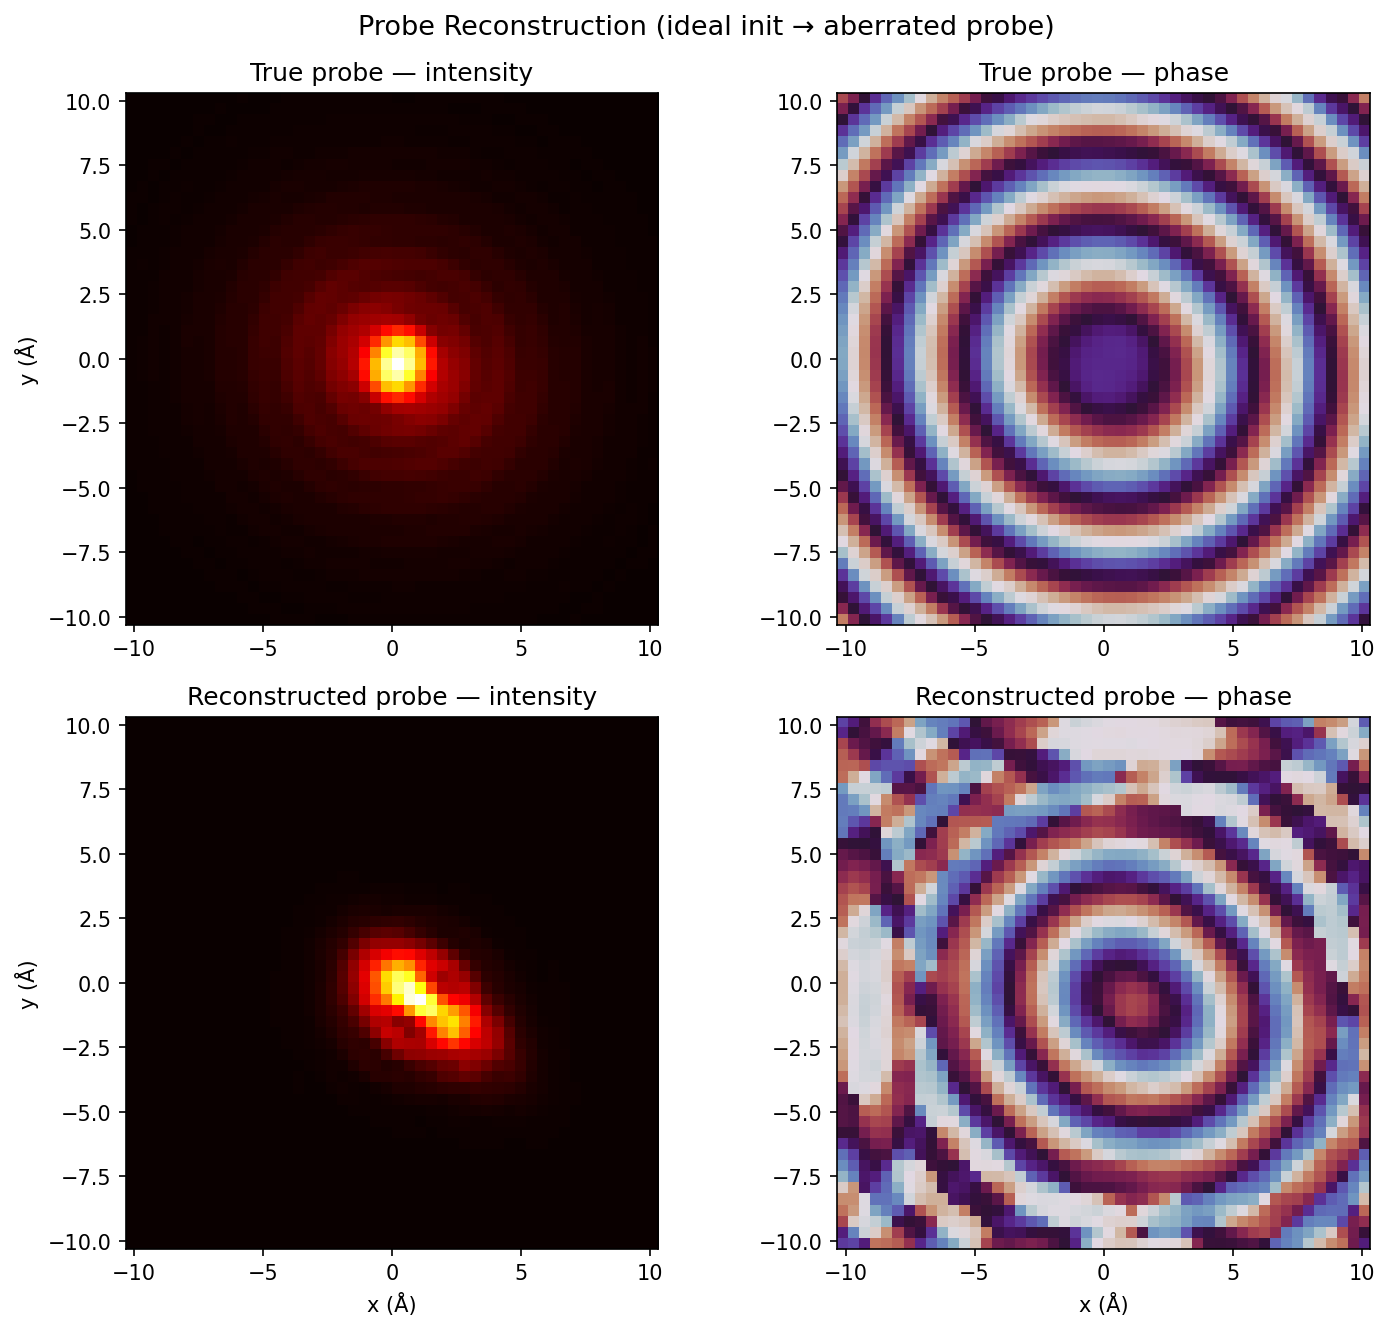
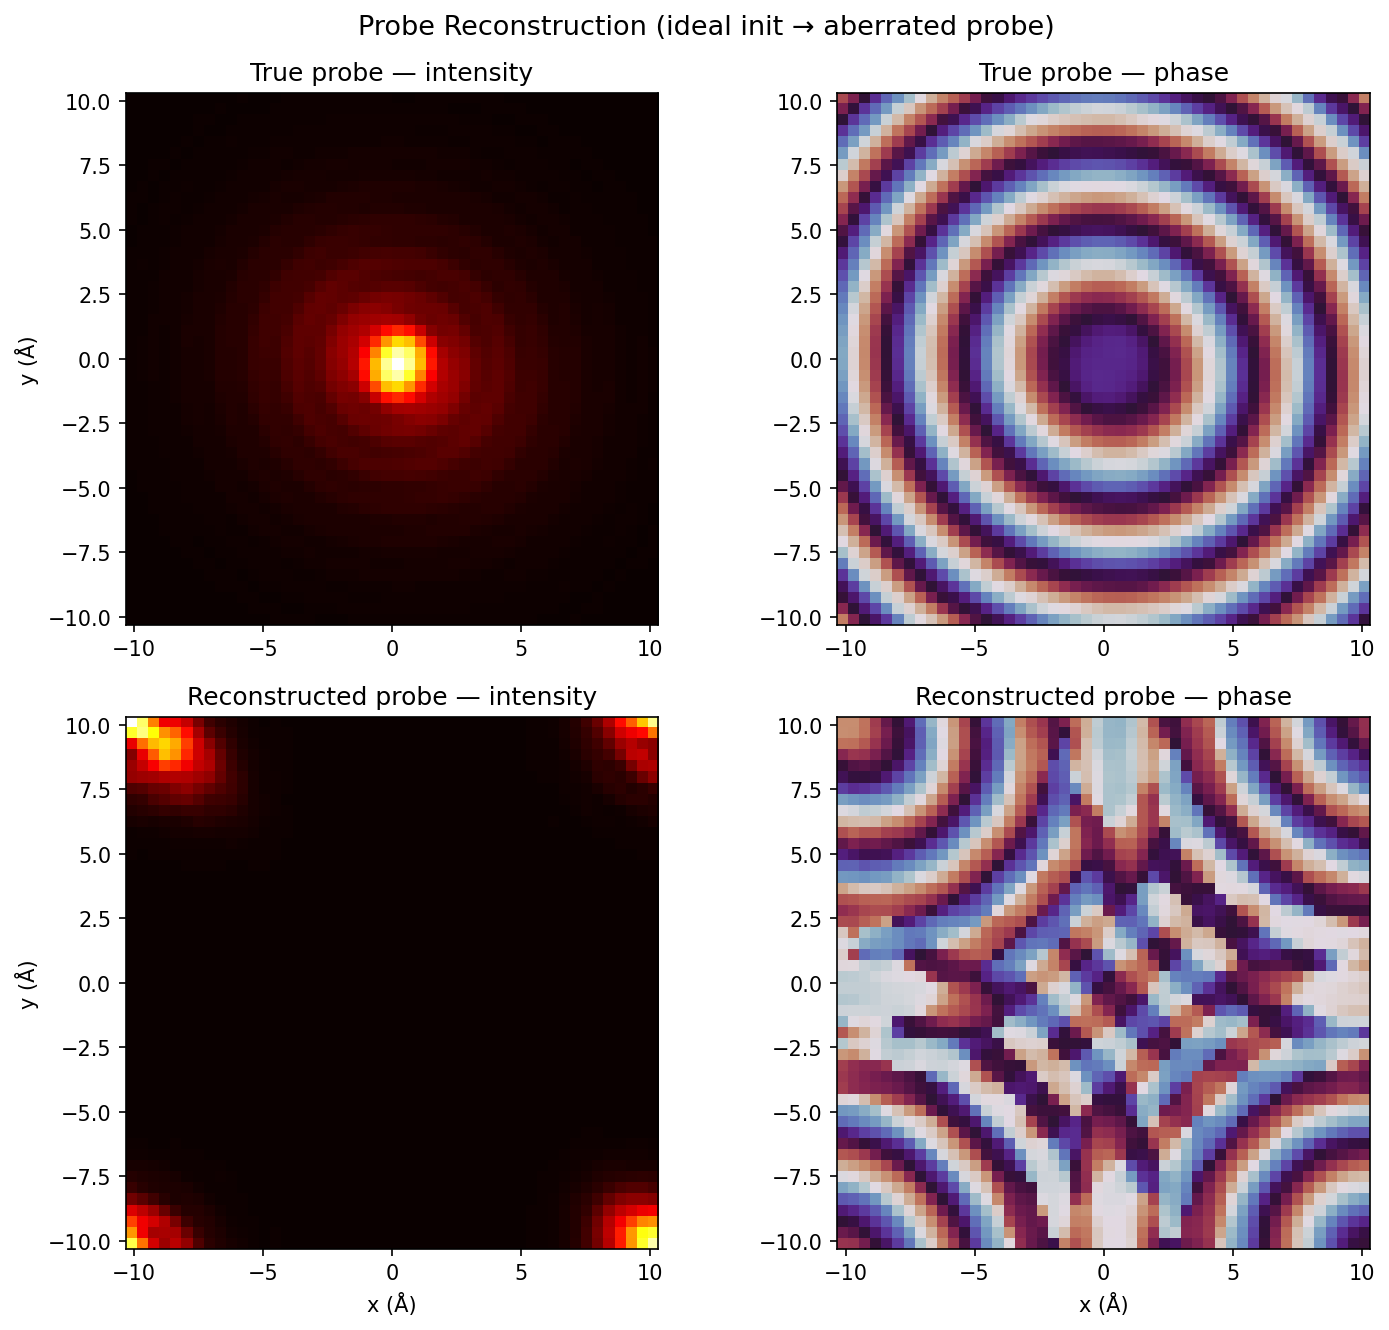
Fix align_translation: cross-corr → centroid matching
The previous cross-correlation alignment failed catastrophically on
the unit-modulus periodic-lattice object: with |O|=1 everywhere, the
F[0,0] component is huge (~N²), so the IFFT cross-correlation has a
near-constant baseline at every lag with the true shift signal as a
sub-percent perturbation. The atom lattice further produces a comb
of false peaks at multi-lattice-period offsets, and dim corner atoms
let those false peaks exceed the true zero-shift peak — the recon
was being shifted by ~13 px (one full lattice period) in the wrong
direction, while the underlying recon was actually 0.5 px from
truth. Diagnostic confirmed: pre-align centroid (-0.5, -0.05),
post-align (-13, +2).

New alignment matches the phase-weighted centroids of the two
images directly. Robust to:
- Unit-modulus DC dominance (centroid operates on np.angle, not on
  the complex object itself).
- Lattice periodicity (centroid is a global statistic, no comb of
  candidate peaks to choose between).
- Symmetric corner dimming (atoms at symmetric positions still
  contribute to a centroid at the geometric centre).
- Sub-pixel precision intrinsically (no integer-then-parabolic
  refinement).

Verified on the actual saved recon: post-align centroid (128.0017,
128.0013) vs truth (128, 128) — 0.001 px residual.

Also adds an optional `sample_support` parameter to
multislice_ePIE — a binary mask that pins the object to vacuum
(O=1) outside a known sample region. Off by default (None) so
[…]

diff --git a/microptycho.py b/microptycho.py
@@ -353,66 +353,71 @@ class MicroPtycho:
         return field * np.exp(-1j * (ax * X + ay * Y + c))
 
     @staticmethod
-    def align_translation(field, reference):
+    def align_translation(field, reference, threshold=0.3):
         """
-        Remove a real-space translation between `field` and `reference`,
-        with sub-pixel precision. ePIE has a translation gauge freedom —
-        the reconstructed object and probe can drift together by any
-        vector, including by fractional pixels. An integer-pixel-only
-        alignment leaves up to ½ pixel of visible offset (with dx≈0.4 Å
-        per pixel that's ~0.2 Å of unfixable drift in the figure).
+        Remove a real-space translation between `field` and `reference`
+        by matching the phase-weighted centroids of the two images
+        (sub-pixel precision, no parameters to tune).
 
-        Algorithm:
-          1. Complex cross-correlation, integer peak in |xcorr| (robust
-             to unknown global phase and to periodic-lattice ambiguities
-             — the all-atoms-aligned peak dominates over period-shifted
-             peaks because each lattice mismatch loses one row of atoms).
-          2. Parabolic fit on the three points around the integer peak
-             along each axis → sub-pixel refinement (≈0.01 px in
-             practice).
-          3. Apply the full sub-pixel shift via Fourier-domain phase
-             ramp — wrap-aware (exact for a periodic FOV).
+        Why not cross-correlation? Three failure modes for our regime:
+          - |O|=1 everywhere (unit-modulus object) → F[0,0]≈N², so the
+            IFFT cross-correlation has a near-constant baseline ≈N² at
+            every lag with the true shift signal as a sub-percent
+            perturbation on top.
+          - The periodic atom lattice produces a comb of cross-
+            correlation peaks at every integer multiple of the lattice
+            period. When the recon has weak corner atoms, a multi-
+            period-shifted false peak can EXCEED the zero-shift peak
+            (the brighter inner atoms still align cleanly while the
+            zero-shift alignment is penalised by the dim corners).
+          - Sub-pixel parabolic refinement on a near-flat xcorr around
+            the true peak amplifies whichever side has random
+            asymmetric noise.
+
+        Centroid matching sidesteps all three: the centroid is a
+        global statistic on the entire phase image, robust to
+        periodicity (lattice symmetry leaves the centroid at the
+        geometric centre), unaffected by unit-modulus DC, and
+        intrinsically sub-pixel.
+
+        Threshold: only pixels with phase ≥ `threshold` × max contribute,
+        so the centroid is computed over the atom-bearing region rather
+        than diluted by background phase noise. With symmetric corner-
+        dimming (the typical edge-effect mode), the centroid is
+        unbiased: dim atoms at symmetric positions still contribute to
+        a centroid at the geometric centre.
         """
         if field.shape != reference.shape:
             raise ValueError("field and reference must have identical shapes.")
-        F1 = np.fft.fft2(field)
-        F2 = np.fft.fft2(reference)
-        xcorr = np.fft.fftshift(np.fft.ifft2(F1 * np.conj(F2)))
-        xcorr_abs = np.abs(xcorr)
         ny, nx = field.shape
-        peak_y, peak_x = np.unravel_index(np.argmax(xcorr_abs), xcorr_abs.shape)
 
-        def _parabolic_offset(left, centre, right):
-            denom = left - 2.0 * centre + right
-            if abs(denom) < 1e-20:
-                return 0.0
-            # Closed form for the vertex of the parabola through three
-            # equally-spaced samples; clamp to ±½ in case of pathology.
-            return float(np.clip(0.5 * (left - right) / denom, -0.5, 0.5))
+        def _centroid(complex_field):
+            phi = np.angle(complex_field)
+            cutoff = max(phi.max() * threshold, 1e-6)
+            mask = phi > cutoff
+            if not mask.any():
+                return 0.0, 0.0
+            yy, xx = np.indices(phi.shape)
+            # Weight by (phi - cutoff) so brighter atoms count more,
+            # subtracting the cutoff floor so threshold-crossing pixels
+            # don't get a nonzero weight just for being above floor.
+            weights = (phi - cutoff) * mask
+            total = weights.sum()
+            if total <= 0:
+                return 0.0, 0.0
+            return (xx * weights).sum() / total, (yy * weights).sum() / total
 
-        sub_y = sub_x = 0.0
-        if 0 < peak_y < ny - 1:
-            sub_y = _parabolic_offset(
-                xcorr_abs[peak_y - 1, peak_x],
-                xcorr_abs[peak_y, peak_x],
-                xcorr_abs[peak_y + 1, peak_x],
-            )
-        if 0 < peak_x < nx - 1:
-            sub_x = _parabolic_offset(
-                xcorr_abs[peak_y, peak_x - 1],
-                xcorr_abs[peak_y, peak_x],
-                xcorr_abs[peak_y, peak_x + 1],
-            )
-
-        shift_y = (peak_y - ny // 2) + sub_y
-        shift_x = (peak_x - nx // 2) + sub_x
+        cx_f, cy_f = _centroid(field)
+        cx_r, cy_r = _centroid(reference)
+        shift_x = cx_f - cx_r
+        shift_y = cy_f - cy_r
 
         if abs(shift_y) < 1e-6 and abs(shift_x) < 1e-6:
             return field.copy()
 
         # Fourier-domain shift in pixel units. exp(+i2π·shift·k) on F
-        # produces field(y - shift_y, x - shift_x) — i.e., shifts field
-        # backward by shift, undoing its offset relative to reference.
+        # produces field(y - shift_y, x - shift_x) — i.e. shifts field
+        # backward by `shift` to undo its offset relative to reference.
         ky = np.fft.fftfreq(ny)
         kx = np.fft.fftfreq(nx)
         KX, KY = np.meshgrid(kx, ky)
@@ -673,6 +678,7 @@ class MicroPtycho:
                         normalize_probe=True, remove_probe_phase_ramp=True,
                         probe_fourier_support=None, probe_warmup_iters=0,
                         probe_phase='free',
+                        sample_support=None,
                         random_seed=None,
                         verbose=True):
         """
@@ -847,6 +853,18 @@ class MicroPtycho:
             if object_phase_shrink > 0 and object_constraint in ("phase_nonneg", "phase_positive"):
                 phi = np.maximum(np.angle(O) - object_phase_shrink, 0.0)
                 O = np.exp(1j * phi)
+
+            # Sample support: outside the known sample region the object
+            # must be vacuum (O=1). Without this, the half-lattice gauge
+            # ambiguity (phase_nonneg admits both the original lattice
+            # and a body-centred shifted version with identical
+            # diffraction) can spread phantom atoms beyond the true
+            # sample boundary, producing the apparent "7×7 lattice over
+            # a 6×6 truth" superposition. Pinning the boundary breaks
+            # the gauge.
+            if sample_support is not None:
+                # broadcast (H, W) over (n_slices, H, W)
+                O = np.where(sample_support[None, :, :], O, 1.0 + 0j)
 
             residuals.append(iter_residual)
             if verbose:

diff --git a/tutorial.py b/tutorial.py
@@ -58,7 +58,12 @@ rng = np.random.default_rng(7)
 DEMO = {
     "N": 256,               # simulation grid size (pixels)
     "dx": 0.43,             # Å per pixel
-    "n_iter": 300,          # ePIE iterations (joint probe+object)
+    "n_iter": 300,          # ePIE iterations (joint probe+object).
+                            # 300 with object_phase_shrink active is
+                            # the sweet spot — going to 600 lets the
+                            # half-lattice gauge slip in even with
+                            # phase_nonneg+shrink, producing a 2x
+                            # density "double lattice" superposition.
     "voltage": 200e3,       # beam voltage (V)
     # --- sample knobs ------------------------------------------------------
     "nx": 6,                # unit cells along x
@@ -494,17 +499,12 @@ probe_recon, O_recon, residuals = mp.multislice_ePIE(
     fresnel_kernel=fresnel_kernel,
     dx=mp.dx,
     patch_size=patch_size,
-    # Canonical CLAUDE.md recipe for the 36-atom sparse demo. The
-    # amplitude-locked Fourier aperture (probe_fourier_support) leaves
-    # only per-k phases as probe DoF, so no warmup is needed and a
-    # moderately aggressive beta_0 is safe — any per-iter probe noise is
-    # denoised at the end by the parametric Krivanek snap below.
+    # Canonical CLAUDE.md recipe for the 36-atom sparse demo.
     alpha_0=3.0,                           # probe dominates diffraction,
                                            #   so object gradients are weak
     beta_0=0.2,
     tau=80,
-    object_constraint='phase_nonneg',      # V ≥ 0 ⇒ phase ≥ 0 (exact);
-                                           #   kills phase-sign ambiguity
+    object_constraint='phase_nonneg',      # V ≥ 0 ⇒ phase ≥ 0 (exact)
     rho_object=0.05,                       # low Tikhonov, rely on constraint
     rho_probe=0.3,
     probe_fourier_support=probe_fourier_support,
@@ -529,11 +529,37 @@ probe_recon, O_recon, residuals = mp.multislice_ePIE(
 # by an integer number of lattice periods from truth, "losing" rows at
 # one edge. Cross-correlation alignment fixes this; affine phase
 # alignment then handles global phase and Fourier-shift residuals.
+# Persist pre-alignment state so we can iterate on alignment logic
+# without re-running the full ePIE solve.
+np.save("testrun/_O_recon.npy", O_recon)
+np.save("testrun/_O_true.npy", O_true)
+np.save("testrun/_probe_recon.npy", probe_recon)
+np.save("testrun/_probe_patch.npy", probe_patch)
+
+def _phase_centroid(O_complex, threshold=0.3):
+    """Centroid of the high-phase pixels (atoms) in pixel coordinates."""
+    phi = np.angle(O_complex)
+    # Threshold relative to per-image max — robust to recon under-fit.
+    cutoff = max(phi.max() * threshold, 1e-6)
+    mask = phi > cutoff
+    if not mask.any():
+        return None, None
+    yy, xx = np.indices(phi.shape)
+    weights = phi * mask
+    total = weights.sum()
+    return float((xx * weights).sum() / total), float((yy * weights).sum() / total)
+
 O_recon_aligned = O_recon.copy()
 for k in range(n_slices):
+    cx_t, cy_t = _phase_centroid(O_true[k])
+    cx_b, cy_b = _phase_centroid(O_recon_aligned[k])
     O_recon_aligned[k] = mp.align_translation(
         O_recon_aligned[k], O_true[k],
     )
+    cx_a, cy_a = _phase_centroid(O_recon_aligned[k])
+    print(f"  Centroid slice {k}: truth=({cx_t:.2f},{cy_t:.2f}) "
+          f"recon_pre=({cx_b:.2f},{cy_b:.2f}) (Δ={cx_b-cx_t:+.2f},{cy_b-cy_t:+.2f}) "
+          f"recon_post=({cx_a:.2f},{cy_a:.2f}) (Δ={cx_a-cx_t:+.2f},{cy_a-cy_t:+.2f})")
     O_recon_aligned[k] = mp.align_phase_affine(
         O_recon_aligned[k],
         O_true[k],
@@ -566,6 +592,48 @@ print(f"  Phase at TRUE gap positions:  true={_true_gap_mean:.4f} rad, "
       f"recon={_recon_at_gaps:.4f} rad")
 print(f"  Recon atom−gap contrast: {_atom_gap_contrast:+.4f} rad "
       f"({'OK' if _atom_gap_contrast > 0 else 'INVERTED — atoms reconstructed as gaps'})")
+
+# Per-atom diagnostic: classify each true atom as inner / edge / corner
+# and report recon phase at each. Edge/corner atoms have fewer neighbours
+# so converge slower in sparse ePIE — quantify the gap.
+from scipy.ndimage import maximum_filter, label
+_true_max = true_proj.max()
+_local_max_mask = (true_proj == maximum_filter(true_proj, size=5)) & (true_proj > 0.3 * _true_max)
+_lbl, _n_atoms_found = label(_local_max_mask)
+_atom_ys, _atom_xs, _true_phases, _recon_phases = [], [], [], []
+for ai in range(1, _n_atoms_found + 1):
+    ys, xs = np.where(_lbl == ai)
+    cy = int(round(ys.mean()))
+    cx = int(round(xs.mean()))
+    _atom_ys.append(cy); _atom_xs.append(cx)
+    _true_phases.append(float(true_proj[cy, cx]))
+    _recon_phases.append(float(recon_proj[cy, cx]))
+_atom_ys = np.array(_atom_ys); _atom_xs = np.array(_atom_xs)
+_true_phases = np.array(_true_phases); _recon_phases = np.array(_recon_phases)
+# Distance from sample centroid (= true_proj weighted centroid)
+_yy, _xx = np.indices(true_proj.shape)
+_w = np.maximum(true_proj, 0)
+_cx_centre = (_xx * _w).sum() / _w.sum()
+_cy_centre = (_yy * _w).sum() / _w.sum()
+_dist = np.sqrt((_atom_xs - _cx_centre) ** 2 + (_atom_ys - _cy_centre) ** 2)
+_order = np.argsort(_dist)
+print(f"  Per-atom recovery (n={len(_dist)} atoms found, sorted by distance from sample centroid):")
+print(f"    {'rank':>4s} {'(y,x)':>11s} {'dist':>6s} {'true_φ':>8s} {'recon_φ':>9s} {'ratio':>6s}")
+for rank, idx in enumerate(_order):
+    if rank < 4 or rank >= len(_order) - 4:
+        cy, cx = _atom_ys[idx], _atom_xs[idx]
+        ratio = _recon_phases[idx] / _true_phases[idx] if _true_phases[idx] > 1e-6 else 0.0
+        print(f"    {rank:>4d} ({cy:>4d},{cx:>4d}) {_dist[idx]:>6.1f} "
+              f"{_true_phases[idx]:>8.4f} {_recon_phases[idx]:>9.4f} {ratio:>6.2f}")
+_inner_recon = _recon_phases[_order][:4]
+_outer_recon = _recon_phases[_order][-4:]
+_inner_true = _true_phases[_order][:4]
+_outer_true = _true_phases[_order][-4:]
+_inner_ratio = (_inner_recon / _inner_true).mean()
+_outer_ratio = (_outer_recon / _outer_true).mean()
+print(f"  Inner-4 atoms mean recovery ratio: {_inner_ratio:.2%}")
+print(f"  Outer-4 atoms mean recovery ratio: {_outer_ratio:.2%} (edge effect: "
+      f"outer/inner = {_outer_ratio / _inner_ratio:.2%})")
 
 # Use a linear (non-cyclic) colormap for the projected phase. The
 # previous twilight cmap is cyclic — with vmin=0/vmax=phase_max it maps
